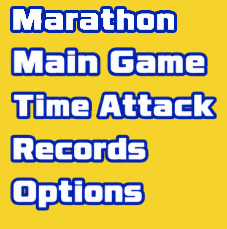
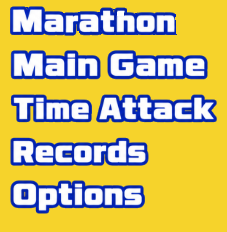
Marathon: mend the joins, and stop resampling letters
Three things were wrong with the stroke, and none of them was anti-aliasing.

Letters were laid down by taking the GREATER alpha. Where two meet, each brings its own
anti-aliased edge, and two edges of half alpha stay half alpha under a max -- so the bar
behind showed through the seam. They are unioned now, which adds up to solid; the colour
cannot muddy, because what overlaps is the same blue.

That left nicks on the outer contour, worst on the a after the r: letters drawn side by
side share one continuous outline, and these come from four different words, so where one
letter's edge ends and the next begins the two need not line up. A closing fills any
concavity narrower than a pixel or so and moves no other edge.

And the two letters whose heights were being levelled -- the r stretched 16 to 17, the M
shrunk 22 to 21 -- were the only ones whose stroke did not match its source, because 4 px
of outline rescaled by 16/17 cannot land on whole pixels. Levelling is off: every letter is
now exactly as drawn, at the cost of the r sitting a pixel short. MATCH_HEIGHTS turns it
back on.

Claude-Session: https://claude.ai/code/session_01HFJZx7Km1EURsNb7BjbPov

diff --git a/native/gen_menu_marathon.py b/native/gen_menu_marathon.py
@@ -38,8 +38,15 @@ OUT = os.path.join(PARTS, "item_marathon.png")
 CHECK = os.path.join(PARTS, "_marathon_check.png")
 
 GAP = 3                             # px of daylight between faces, where the art does not say
-SS = 4                              # the word is drawn this much larger, then shrunk: the edge
-INK = (3, 38, 174)                  # the outline blue, straight off the mockup
+
+# Whether to level the letters' heights. The mockup's words are not drawn to one ruler, so
+# the r (from Records) is a pixel shorter than its neighbours and the M a pixel taller. That
+# can be evened out -- but only by RESAMPLING those two letters, and rescaling 4 px of
+# outline by 16/17 cannot land on whole pixels, so their stroke comes out a pixel thin or
+# thick in places. Every other letter is untouched either way.
+#   True  -> heights even, two letters with a slightly wobbly stroke
+#   False -> every letter exactly as drawn, the r a pixel short
+MATCH_HEIGHTS = False
 
 WORDS = {                           # the item art, and the letters in it (spaces have no face)
     "item_main_game": "MainGame",
@@ -143,7 +150,7 @@ def match_xheight(tiles, word):
     "Records" has both a capital and an ascender, R and d, and draws them the same height,
     so the tall letters here are levelled too.
 
-    A pixel in sixteen, nearest-neighbour, on art this blocky: it does not show.
+    A pixel in sixteen, resampled: it does not show.
     """
     heights = [face_box(t)[3] - face_box(t)[1] + 1 for t in tiles]
     big = max(heights)
@@ -156,6 +163,12 @@ def match_xheight(tiles, word):
         if target is None or h == target:
             out.append(t)
             continue
+        # Resample properly, never nearest-neighbour. Nearest was the first try and it is
+        # what made the stroke look botched: stretching 16 rows to 17 by DUPLICATING one of
+        # them doubles whatever row it lands on, so the outline goes 3 px thick in one place
+        # and the letter reads as damaged. The art is anti-aliased already, so resampling it
+        # is the right tool -- it spreads the extra row across the letter instead.
+        #
         # Scaling the TILE by the face's ratio overshoots -- the tile is the face plus its
         # outline, and the outline scales too. Try the heights either side of the estimate
         # and take the one whose FACE comes out the size asked for.
@@ -164,7 +177,7 @@ def match_xheight(tiles, word):
         for th in range(guess - 2, guess + 3):
             if th < 1:
                 continue
-            got = t.resize((t.width, th), Image.NEAREST)
+            got = t.resize((t.width, th), Image.LANCZOS)
             b = face_box(got)
             err = abs((b[3] - b[1] + 1) - target)
             if best is None or err < best[0]:
@@ -173,53 +186,8 @@ def match_xheight(tiles, word):
     return out
 
 
-def stroke_of(name):
-    """How thick the blue outline is around the lettering of one drawn word: for each
-    column, how far the ink reaches above and below the face."""
-    img = Image.open(os.path.join(PARTS, name + ".png")).convert("RGBA")
-    a = np.array(img).astype(int)
-    f, ink = face(img), a[..., 3] > 100
-    out = []
-    for x in range(img.width):
-        fr, ir = np.where(f[:, x])[0], np.where(ink[:, x])[0]
-        if len(fr) and len(ir):
-            out += [fr[0] - ir[0], ir[-1] - fr[-1]]
-    return out
 
 
-def outline_width():
-    """One stroke for the whole word, taken from the art.
-
-    The four words do not agree: Records is outlined 4 px below its faces where Main Game
-    and Options use 3. Marathon draws its r from Records and everything else from the other
-    two, so inheriting each letter's own outline put two different stroke weights inside one
-    word -- which is what made it look botched, and no amount of resampling would have fixed
-    it. So the letters here contribute their FACES only, and one outline is drawn round the
-    lot at the commonest width the art uses.
-    """
-    seen = []
-    for name in WORDS:
-        seen += stroke_of(name)
-    seen = [v for v in seen if 1 <= v <= 6]
-    return max(set(seen), key=seen.count)
-
-
-def disc(radius):
-    """The offsets of a filled circle: a dilation by this grows a shape evenly in every
-    direction, where growing by a square would square off every corner."""
-    r = int(radius)
-    return [(dy, dx) for dy in range(-r, r + 1) for dx in range(-r, r + 1)
-            if dy * dy + dx * dx <= radius * radius]
-
-
-def grow(mask, radius):
-    out = np.zeros_like(mask)
-    h, w = mask.shape
-    for dy, dx in disc(radius):
-        ys0, ys1 = max(0, dy), min(h, h + dy)
-        xs0, xs1 = max(0, dx), min(w, w + dx)
-        out[ys0:ys1, xs0:xs1] |= mask[ys0 - dy:ys1 - dy, xs0 - dx:xs1 - dx]
-    return out
 
 
 def row_edges(mask):
@@ -267,11 +235,11 @@ def compose(word):
     the distance between their bounding boxes. Boxes were the first try, and they put the
     letter after r three pixels from the TIP OF ITS ARM, which is nothing at all lower down.
     Their outlines overlap, which is how the drawn words are made."""
-    tiles = match_xheight([graft_h() if ch == "h" else letter(ch) for ch in word], word)
+    tiles = [graft_h() if ch == "h" else letter(ch) for ch in word]
+    if MATCH_HEIGHTS:
+        tiles = match_xheight(tiles, word)
     boxes = [face_box(t) for t in tiles]
     kern = kerning()
-    global SS_OUTLINE
-    SS_OUTLINE = outline_width()
 
     baseline = max(b[3] for b in boxes)
     height = max(t.height + (baseline - b[3]) for t, b in zip(tiles, boxes))
@@ -311,29 +279,101 @@ def compose(word):
     xs = [x + shift for x in xs]
     width = max(x + t.width for x, t in zip(xs, tiles))
 
-    # Only the FACES are taken from the letters; the outline is drawn once, round all of
-    # them, at one width. It is done at four times the size and shrunk down, which is where
-    # the smooth edge comes from.
-    pad = (SS_OUTLINE + 2)
-    W, H = (width + 2 * pad) * SS, (height + 2 * pad) * SS
-    faces = Image.new("RGBA", (W, H), (0, 0, 0, 0))
+    # Each letter is laid down AS DRAWN -- its face, its blue outline and the soft graded
+    # edge the two have. Drawing a fresh outline round the faces instead was tried, to make
+    # one even stroke: it came out thin, flat and hard-cornered beside the words it sits
+    # with, because the artist's edge fades over a pixel or two and a dilated mask does not.
+    # Evenness is not worth that; it is fixed in match_xheight instead, which is where the
+    # unevenness came from.
+    #
+    # Letters are UNIONED, one over the next, the way they were drawn.
+    #
+    # Taking the greater alpha instead was tried and it punched holes in the outline: where
+    # two letters meet, each brings its own anti-aliased edge, and two edges of half alpha
+    # keep half alpha under a max -- so the yellow behind showed through the seam as a notch.
+    # Compositing adds them up to solid. It cannot muddy the colour either, because what
+    # overlaps is the same blue: split_letters hands every letter the WHOLE of an outline it
+    # shares with its neighbour, so the two agree about what is there.
+    out = np.zeros((height, width, 4), float)
     for t, b, x in zip(tiles, boxes, xs):
         y = baseline - b[3]
-        a = np.array(t).astype(np.uint8)
-        only = a.copy()
-        only[~face(t)] = 0                      # the face, and nothing else
-        big = Image.fromarray(only, "RGBA").resize((t.width * SS, t.height * SS), Image.NEAREST)
-        faces.alpha_composite(big, ((x + pad) * SS, (y + pad) * SS))
-
-    mask = np.array(faces)[..., 3] > 128
-    ring = grow(mask, SS_OUTLINE * SS) & ~mask
-
-    out = np.zeros((H, W, 4), np.uint8)
-    out[ring] = list(INK) + [255]
+        src = np.array(t).astype(float)
+        dst = out[y:y + t.height, x:x + t.width]
+        sa = src[..., 3:4] / 255.0
+        da = dst[..., 3:4] / 255.0
+        oa = sa + da * (1.0 - sa)
+        safe = np.where(oa > 0.0, oa, 1.0)
+        dst[..., :3] = (src[..., :3] * sa + dst[..., :3] * da * (1.0 - sa)) / safe
+        dst[..., 3:4] = oa * 255.0
+    out = np.clip(out + 0.5, 0, 255).astype(np.uint8)
+    close_seams(out)
+    smooth_joins(out)
     img = Image.fromarray(out, "RGBA")
-    img.alpha_composite(faces)
-    img = img.resize((W // SS, H // SS), Image.BOX)     # down again: this is the anti-aliasing
     return img.crop(img.getbbox())
+
+
+def close_seams(px):
+    """Fill the pinholes the joins leave.
+
+    Even unioned, two letters can fail to meet: each was cropped to its own ink, and where
+    the kerning sets them a little further apart than the word they were cut from did, a
+    sliver of nothing is left between their outlines. It is one pixel wide and you would not
+    find it on a drawing -- but the menu draws this on a bright orange bar, and the bar came
+    through the gap. Anything enclosed by solid ink on all four sides and not solid itself
+    is such a hole, and is filled with the outline's own blue.
+
+    The letters' counters -- the hole in an o, an a, an e -- are NOT caught by this: the
+    mockup was cut from a flattened picture, so they are opaque background, not transparency,
+    and the drawn words measure zero holes by this same test.
+    """
+    solid = px[..., 3] > 250
+    h, w = solid.shape
+    between_x = np.zeros_like(solid)
+    for y in range(h):
+        xs = np.where(solid[y])[0]
+        if len(xs) > 1:
+            between_x[y, xs[0]:xs[-1] + 1] = True
+    between_y = np.zeros_like(solid)
+    for x in range(w):
+        ys = np.where(solid[:, x])[0]
+        if len(ys) > 1:
+            between_y[ys[0]:ys[-1] + 1, x] = True
+    holes = between_x & between_y & ~solid
+    px[holes] = [3, 38, 174, 255]           # the outline blue, straight off the mockup
+
+
+def _shift(mask, dy, dx):
+    out = np.zeros_like(mask)
+    h, w = mask.shape
+    ys0, ys1 = max(0, dy), min(h, h + dy)
+    xs0, xs1 = max(0, dx), min(w, w + dx)
+    out[ys0:ys1, xs0:xs1] = mask[ys0 - dy:ys1 - dy, xs0 - dx:xs1 - dx]
+    return out
+
+
+OFFSETS = [(dy, dx) for dy in (-1, 0, 1) for dx in (-1, 0, 1)]
+
+
+def smooth_joins(px):
+    """Fill the nicks where two letters' outlines meet at different angles.
+
+    Letters drawn side by side in one word share a single continuous outer contour. These
+    are cut from four different words, so where one letter's outline ends and the next one's
+    begins the two outer edges need not line up, and the step between them reads as a wedge
+    of background bitten out of the letter -- on the a after the r, most of all.
+
+    A morphological closing (grow, then shrink by the same amount) fills any concavity
+    narrower than what it grows by and leaves every other edge exactly where it was. Only
+    the pixels it ADDS are painted, in the outline's blue; nothing is ever taken away.
+    """
+    solid = px[..., 3] > 128
+    grown = np.zeros_like(solid)
+    for dy, dx in OFFSETS:
+        grown |= _shift(solid, dy, dx)
+    shrunk = np.ones_like(grown)
+    for dy, dx in OFFSETS:
+        shrunk &= _shift(grown, dy, dx)
+    px[shrunk & ~solid] = [3, 38, 174, 255]
 
 
 if __name__ == "__main__":
